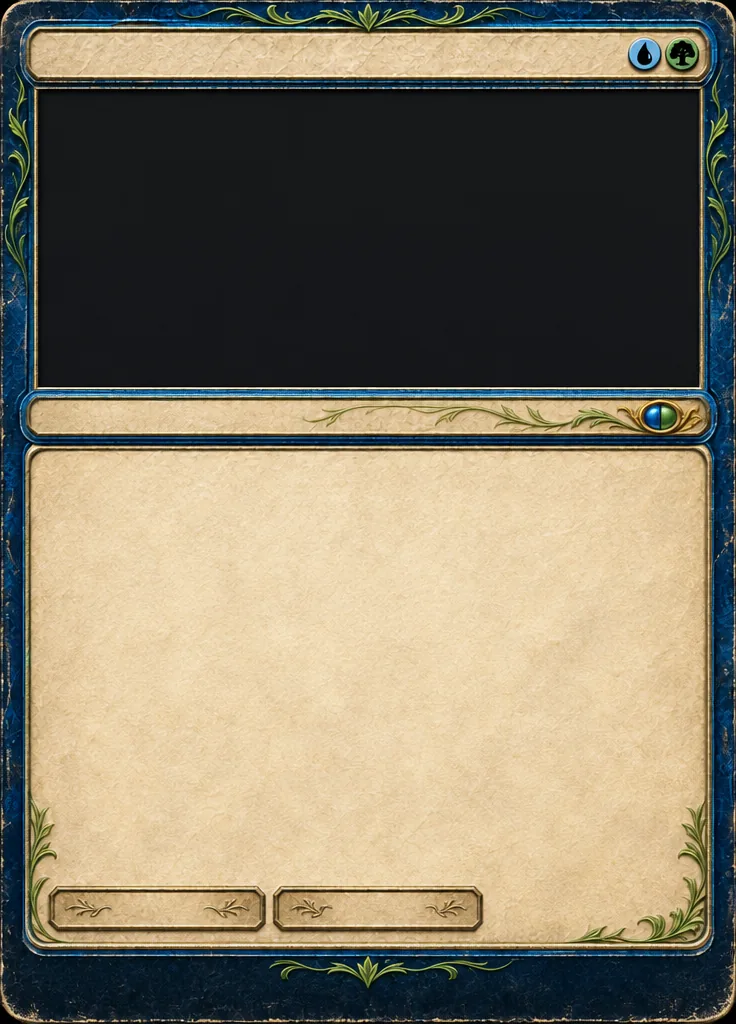
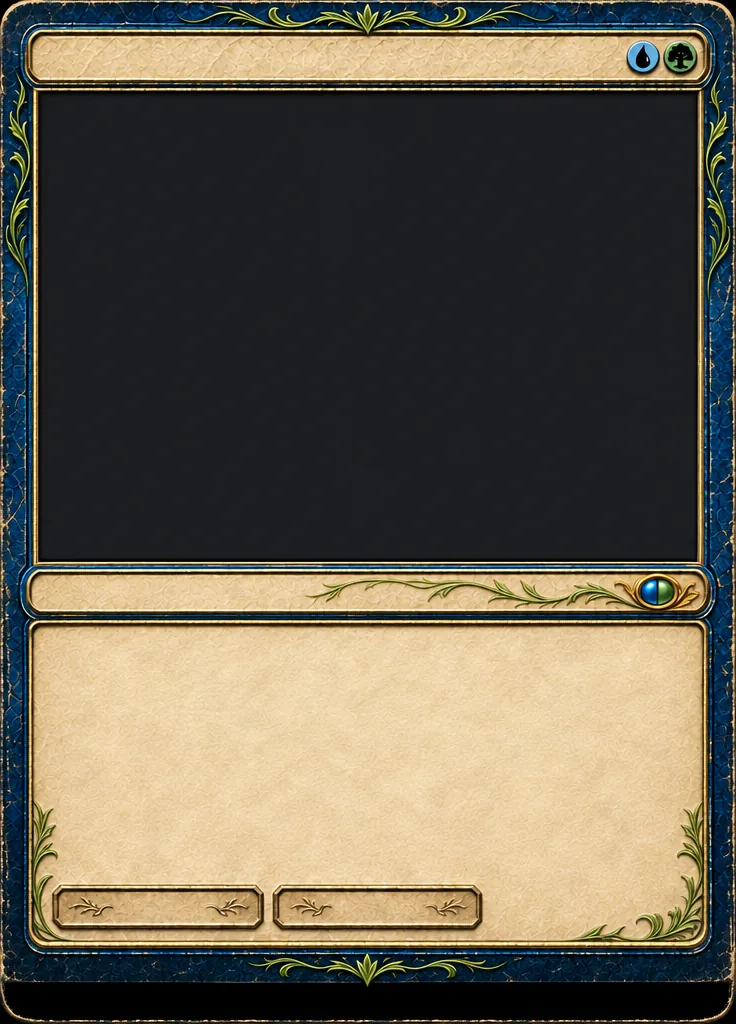
fix: Magic frames follow a real Magic card's proportions
This commit was detailed with Claude (Claude Code). Piece by piece:

Why
- Measured against a real Magic card, the first frames were far off: the art
  window was a 2.4:1 strip (a real card's is about 1.4:1, from 10 % to 55 % of
  the height) and the text box took half the card (a real one, about 30 %).

Geometry (design/magic-frame/template.py)
- New boxes in card px: title bar 24-58, art window 64-350, type line 356-388,
  text box 394-586, P/T box 354-440 x 570-604 over the text box's corner,
  collector line 606-634.
- --blank now keeps the plaques as empty shapes, so one pass gives the frame.

Frames (site/img/frame-*.webp)
- All seven regenerated with Higgsfield in one pass each: the blank template for
  the layout, the card's previous frame for materials and colours (job ids in
  prompts.md). ECOS, Ferrovia and IoT Safe came back with a slightly shorter art
  window (about 1.55:1); the CSS follows each frame's own boxes.

Live text (site/styles.css)
- Every card's measured boxes updated (title, art, type line, text box top,
  plaques, collector line).
- Body text is a variable (--fs): 12.5px on the project cards, 11.5px on
  Hikaru's, whose Focus and Speaks now share a line with Base under them. Flex
  no longer shrinks the text blocks, so nothing overlaps; tighter chips.
- Hikaru's */* sits in the new, larger P/T box.
- site/img/hikaru-art.webp is re-cropped from the portrait at 1.4:1.

Checked in a headless browser in PT, EN and JA: no text runs into the plaques,
[…]

diff --git a/site/styles.css b/site/styles.css
@@ -435,19 +435,19 @@ html.tcg .tcg-card.dragging { cursor: grabbing; -webkit-user-select: none; user-
    design/magic-frame; the live text sits in its boxes. Each slot gives its frame's boxes, measured in card px (460x642):
    --t0/--t1 title bar, --tr where the mana gems start, --al/--a0/--ar/--a1 art window, --y0/--y1/--yr type line, --x text
    box top, --pb/--bh plaque row, --bw plaque width, --b1..--b4 plaque lefts, --c0/--c1 collector line ---- */
-[data-card="hikaru"] { --t0: 17px; --t1: 48px; --tr: 322px; --al: 24px; --a0: 56px; --ar: 436px; --a1: 228px; --y0: 236px; --y1: 261px; --yr: 418px; --x: 270px; --pb: 545px; --bh: 25px; --bw: 77px; --b1: 34px; --b2: 118px; --b3: 202px; --b4: 286px; --c0: 607px; --c1: 642px; --no: 'HKR • 0001'; --frame: url('img/frame-hikaru.webp'); }
-[data-card="portfolio"] { --t0: 26px; --t1: 54px; --tr: 350px; --al: 28px; --a0: 62px; --ar: 432px; --a1: 233px; --y0: 241px; --y1: 266px; --yr: 408px; --x: 276px; --pb: 544px; --bh: 28px; --bw: 123px; --b1: 35px; --b2: 166px; --c0: 607px; --c1: 640px; --no: 'HKR • 0002'; --frame: url('img/frame-portfolio.webp'); }
-[data-card="aquasense"] { --t0: 21px; --t1: 48px; --tr: 391px; --al: 24px; --a0: 57px; --ar: 437px; --a1: 242px; --y0: 251px; --y1: 272px; --yr: 390px; --x: 283px; --pb: 556px; --bh: 27px; --bw: 132px; --b1: 30px; --b2: 171px; --c0: 607px; --c1: 639px; --no: 'HKR • 0003'; --frame: url('img/frame-aquasense.webp'); }
-[data-card="ecos"] { --t0: 29px; --t1: 56px; --tr: 408px; --al: 30px; --a0: 62px; --ar: 431px; --a1: 246px; --y0: 254px; --y1: 275px; --yr: 410px; --x: 282px; --pb: 552px; --bh: 28px; --bw: 128px; --b1: 34px; --c0: 602px; --c1: 638px; --no: 'HKR • 0004'; --frame: url('img/frame-ecos.webp'); }
-[data-card="ferrovia"] { --t0: 26px; --t1: 53px; --tr: 383px; --al: 27px; --a0: 61px; --ar: 434px; --a1: 231px; --y0: 238px; --y1: 263px; --yr: 410px; --x: 270px; --pb: 540px; --bh: 29px; --bw: 127px; --b1: 33px; --c0: 605px; --c1: 642px; --no: 'HKR • 0005'; --frame: url('img/frame-ferrovia.webp'); }
-[data-card="fabio"] { --t0: 29px; --t1: 56px; --tr: 387px; --al: 28px; --a0: 62px; --ar: 432px; --a1: 231px; --y0: 238px; --y1: 262px; --yr: 416px; --x: 271px; --pb: 557px; --bh: 23px; --bw: 128px; --b1: 36px; --c0: 612px; --c1: 640px; --no: 'HKR • 0006'; --frame: url('img/frame-fabio.webp'); }
-[data-card="cofre"] { --t0: 26px; --t1: 55px; --tr: 404px; --al: 31px; --a0: 60px; --ar: 429px; --a1: 232px; --y0: 238px; --y1: 263px; --yr: 410px; --x: 271px; --pb: 551px; --bh: 26px; --bw: 128px; --b1: 36px; --c0: 606px; --c1: 642px; --no: 'HKR • 0007'; --frame: url('img/frame-cofre.webp'); }
+[data-card="hikaru"] { --t0: 22px; --t1: 53px; --tr: 315px; --al: 25px; --a0: 60px; --ar: 435px; --a1: 349px; --y0: 358px; --y1: 385px; --yr: 420px; --x: 393px; --pb: 544px; --bh: 27px; --bw: 76px; --b1: 34px; --b2: 118px; --b3: 202px; --b4: 283px; --c0: 607px; --c1: 642px; --no: 'HKR • 0001'; --frame: url('img/frame-hikaru.webp'); }
+[data-card="portfolio"] { --t0: 25px; --t1: 55px; --tr: 364px; --al: 28px; --a0: 61px; --ar: 433px; --a1: 350px; --y0: 358px; --y1: 384px; --yr: 406px; --x: 394px; --pb: 545px; --bh: 26px; --bw: 124px; --b1: 34px; --b2: 166px; --c0: 607px; --c1: 639px; --no: 'HKR • 0002'; --frame: url('img/frame-portfolio.webp'); }
+[data-card="aquasense"] { --t0: 23px; --t1: 50px; --tr: 391px; --al: 24px; --a0: 57px; --ar: 436px; --a1: 352px; --y0: 361px; --y1: 383px; --yr: 380px; --x: 394px; --pb: 555px; --bh: 27px; --bw: 131px; --b1: 33px; --b2: 170px; --c0: 606px; --c1: 639px; --no: 'HKR • 0003'; --frame: url('img/frame-aquasense.webp'); }
+[data-card="ecos"] { --t0: 28px; --t1: 56px; --tr: 408px; --al: 29px; --a0: 61px; --ar: 431px; --a1: 331px; --y0: 339px; --y1: 366px; --yr: 411px; --x: 373px; --pb: 553px; --bh: 26px; --bw: 127px; --b1: 34px; --c0: 602px; --c1: 638px; --no: 'HKR • 0004'; --frame: url('img/frame-ecos.webp'); }
+[data-card="ferrovia"] { --t0: 26px; --t1: 53px; --tr: 383px; --al: 26px; --a0: 60px; --ar: 434px; --a1: 315px; --y0: 322px; --y1: 347px; --yr: 413px; --x: 357px; --pb: 541px; --bh: 28px; --bw: 127px; --b1: 33px; --c0: 604px; --c1: 640px; --no: 'HKR • 0005'; --frame: url('img/frame-ferrovia.webp'); }
+[data-card="fabio"] { --t0: 28px; --t1: 55px; --tr: 387px; --al: 28px; --a0: 62px; --ar: 432px; --a1: 351px; --y0: 359px; --y1: 383px; --yr: 417px; --x: 392px; --pb: 557px; --bh: 23px; --bw: 127px; --b1: 36px; --c0: 603px; --c1: 640px; --no: 'HKR • 0006'; --frame: url('img/frame-fabio.webp'); }
+[data-card="cofre"] { --t0: 26px; --t1: 55px; --tr: 405px; --al: 31px; --a0: 60px; --ar: 431px; --a1: 308px; --y0: 314px; --y1: 340px; --yr: 412px; --x: 348px; --pb: 552px; --bh: 24px; --bw: 127px; --b1: 37px; --c0: 606px; --c1: 641px; --no: 'HKR • 0007'; --frame: url('img/frame-cofre.webp'); }
 
 /* the text box's content flows inside the card's padding (the text box minus the plaque row); everything else is placed */
 html.tcg .card.mf {
-  --ink: #241a10; --serif: 'Palatino Linotype', 'Book Antiqua', Palatino, 'Noto Serif', Georgia, serif;
-  padding: calc(var(--x) + 9px) 38px calc(642px - var(--pb) + 8px);
-  gap: 7px; background: #111 var(--frame) 0 0 / 100% 100% no-repeat;
+  --fs: 12.5px; --ink: #241a10; --serif: 'Palatino Linotype', 'Book Antiqua', Palatino, 'Noto Serif', Georgia, serif;
+  padding: calc(var(--x) + 8px) 36px calc(642px - var(--pb) + 6px);
+  gap: 5px; background: #111 var(--frame) 0 0 / 100% 100% no-repeat;
   color: var(--ink); font-family: var(--serif);
 }
 html.tcg:lang(ja) .card.mf { --serif: 'Yu Mincho', 'YuMincho', 'Hiragino Mincho ProN', 'Noto Serif JP', serif; }
@@ -474,17 +474,17 @@ html.tcg .card.mf .role {
 }
 html.tcg .card.mf .role br { display: none; }
 html.tcg .card.mf .role [data-i18n="role"]::after { content: ' ·'; }
-html.tcg .card.mf :is(.desc, .about p) { font-size: 13.5px; line-height: 1.38; color: var(--ink); }
+html.tcg .card.mf :is(.desc, .about p) { font-size: var(--fs); line-height: 1.38; color: var(--ink); }
 html.tcg .card.mf .about p { font-style: italic; }
 html.tcg .card.mf .about .label { position: absolute; width: 1px; height: 1px; overflow: hidden; clip-path: inset(50%); }
-html.tcg .card.mf .panel { background: none; border: 0; padding: 0; gap: 1px 8px; font-size: 13.5px; line-height: 1.35; }
+html.tcg .card.mf .panel { background: none; border: 0; padding: 0; gap: 0 8px; font-size: var(--fs); line-height: 1.35; }
 html.tcg .card.mf .panel dt {
-  color: var(--ink); font: italic 700 13.5px/1.35 var(--serif); letter-spacing: 0; text-transform: none;
+  color: var(--ink); font: italic 700 var(--fs)/1.35 var(--serif); letter-spacing: 0; text-transform: none;
 }
-html.tcg .card.mf .chips { gap: 4px; margin-top: 8px; }
+html.tcg .card.mf .chips { gap: 3px; margin-top: 5px; }
 html.tcg .card.mf .chips li {
-  padding: 1px 6px; border: 1px solid rgb(60 40 20 / .4); border-radius: 3px; background: rgb(255 248 230 / .35);
-  color: var(--ink); font-size: 11.5px;
+  padding: 0 5px; border: 1px solid rgb(60 40 20 / .4); border-radius: 3px; background: rgb(255 248 230 / .35);
+  color: var(--ink); font-size: 10.5px;
 }
 /* the buttons are the frame's plaques */
 html.tcg .card.mf .links { position: absolute; inset: 0; display: block; pointer-events: none; }
@@ -510,10 +510,16 @@ html.tcg .card.mf .foot {
 html.tcg .card.mf .foot::before { content: var(--no); }
 html.tcg .card.mf .foot > :last-child { margin-left: auto; }
 html.tcg .card.mf .open { color: #cfc6b0; }
+/* Hikaru's card holds the most text in the same box */
+html.tcg [data-card="hikaru"] .card.mf { --fs: 11.5px; }
+html.tcg .card.mf > * { flex-shrink: 0; }
+/* Focus and Speaks side by side, Base under them: one line less in the text box */
+html.tcg [data-card="hikaru"] .card.mf .panel { grid-template-columns: auto auto auto 1fr; column-gap: 6px; }
+html.tcg [data-card="hikaru"] .card.mf .panel dd:nth-of-type(1) { margin-right: 12px; }
 /* Hikaru's power/toughness box */
 html.tcg [data-card="hikaru"] .card.mf::after {
-  content: '*/*'; position: absolute; z-index: 1; inset: 575px auto auto 371px; width: 64px; height: 32px;
-  background: none; opacity: 1; font: 700 17px/32px var(--serif); text-align: center; color: var(--ink);
+  content: '*/*'; position: absolute; z-index: 1; inset: 569px auto auto 362px; width: 81px; height: 40px;
+  background: none; opacity: 1; font: 700 19px/40px var(--serif); text-align: center; color: var(--ink);
 }
 
 /* critters walk in the lane above the ground, in both modes; DOM order puts them over .ground and under

diff --git a/design/magic-frame/template.py b/design/magic-frame/template.py
@@ -1,20 +1,22 @@
 # The Magic frame's geometry, drawn flat for Higgsfield to finish (docs/adr/0001). One template per card: the boxes are the
 # same on every card (site/styles.css places the live text in them), the placeholder text and colour differ.
 # usage: python design/magic-frame/template.py <card> <out.png> [--blank]
-#   --blank: the same geometry with every text area empty and the art window plain, for the frame the site uses
+#   --blank: the same geometry with every text area empty, the plaques blank and the art window plain: the frame the site uses
 import sys
 from PIL import Image, ImageDraw, ImageFont
 
 W, H = 736, 1024          # Higgsfield size (multiples of 16), the card's 460x642 proportion
 S = W / 460               # card px -> template px
 # the geometry, in card px (460x642); keep in sync with the .mframe rules in site/styles.css
+# proportions of a real Magic card (modern frame): title bar at 4-9 % of the height, art window 10-55 % (about 1.4:1),
+# type line 56-61 %, text box 62-91 %, the power/toughness box over the text box's bottom right corner
 GEO = {
-    'title': (18, 16, 442, 50),
-    'art': (22, 54, 438, 254),
-    'type': (18, 258, 442, 284),
-    'text': (22, 288, 438, 598),
-    'pt': (366, 580, 440, 610),   # Hikaru's card only
-    'collector': (18, 606, 442, 630),
+    'title': (22, 24, 438, 58),
+    'art': (30, 64, 430, 350),
+    'type': (22, 356, 438, 388),
+    'text': (28, 394, 432, 586),
+    'pt': (354, 570, 440, 604),   # Hikaru's card only
+    'collector': (22, 606, 438, 634),
 }
 CARDS = {
     'hikaru': dict(color='gold', name='Hikaru Ogasawara', mana='W U B R G', pt='*/*',
@@ -63,26 +65,27 @@ def draw(card, blank):
     d.rectangle(box('art'), fill=(40, 40, 44), outline=(20, 18, 16), width=3)
     d.rectangle(box('text'), fill=(240, 232, 212), outline=(40, 34, 28), width=2)
     if c.get('pt'): d.rounded_rectangle(box('pt'), radius=round(6 * S), fill=(236, 228, 206), outline=(40, 34, 28), width=2)
-    if blank:
-        return im
     x0, y0, x1, y1 = box('title')
-    d.text((x0 + 10, (y0 + y1) / 2), c['name'], font=font(20, True), fill=(20, 16, 12), anchor='lm')
-    d.text((x1 - 10, (y0 + y1) / 2), c['mana'], font=font(13, True), fill=(20, 16, 12), anchor='rm')
-    x0, y0, x1, y1 = box('art'); d.text(((x0 + x1) / 2, (y0 + y1) / 2), 'ART', font=font(18), fill=(120, 120, 128), anchor='mm')
-    x0, y0, x1, y1 = box('type'); d.text((x0 + 10, (y0 + y1) / 2), c['type'], font=font(11.5, True), fill=(20, 16, 12), anchor='lm')
+    if not blank: d.text((x0 + 10, (y0 + y1) / 2), c['name'], font=font(20, True), fill=(20, 16, 12), anchor='lm')
+    if not blank: d.text((x1 - 10, (y0 + y1) / 2), c['mana'], font=font(13, True), fill=(20, 16, 12), anchor='rm')
+    x0, y0, x1, y1 = box('art')
+    if not blank: d.text(((x0 + x1) / 2, (y0 + y1) / 2), 'ART', font=font(18), fill=(120, 120, 128), anchor='mm')
+    x0, y0, x1, y1 = box('type')
+    if not blank: d.text((x0 + 10, (y0 + y1) / 2), c['type'], font=font(11.5, True), fill=(20, 16, 12), anchor='lm')
     x0, y0, x1, y1 = box('text'); y = y0 + 14
-    for ln in c['lines']:
+    for ln in ([] if blank else c['lines']):
         d.text((x0 + 14, y), ln, font=font(11.5), fill=(28, 22, 16)); y += round(19 * S)
     right = box('pt')[0] - 12 if c.get('pt') else x1 - 14  # the row stops short of the P/T box
     n = c.get('slots', 4)  # plaque width: a quarter of the row on Hikaru's card, a third on a project
     bw = (right - x0 - 14 - (n - 1) * 10) / n
     for i, b in enumerate(c['buttons']):
         bx = x0 + 14 + i * (bw + 10)
-        d.rounded_rectangle((bx, y1 - 60, bx + bw, y1 - 22), radius=8, fill=(210, 196, 160), outline=(60, 48, 30), width=2)
-        d.text((bx + bw / 2, y1 - 41), b, font=font(11, True), fill=(28, 22, 16), anchor='mm')
-    if c.get('pt'):
+        d.rounded_rectangle((bx, y1 - 56, bx + bw, y1 - 16), radius=8, fill=(210, 196, 160), outline=(60, 48, 30), width=2)
+        if not blank: d.text((bx + bw / 2, y1 - 41), b, font=font(11, True), fill=(28, 22, 16), anchor='mm')
+    if c.get('pt') and not blank:
         x0, y0, x1, y1 = box('pt'); d.text(((x0 + x1) / 2, (y0 + y1) / 2), c['pt'], font=font(15, True), fill=(20, 16, 12), anchor='mm')
-    x0, y0, x1, y1 = box('collector'); d.text((x0 + 4, (y0 + y1) / 2), c['collector'], font=font(9), fill=(230, 224, 210), anchor='lm')
+    x0, y0, x1, y1 = box('collector')
+    if not blank: d.text((x0 + 4, (y0 + y1) / 2), c['collector'], font=font(9), fill=(230, 224, 210), anchor='lm')
     return im
 
 if __name__ == '__main__':

diff --git a/design/magic-frame/prompts.md b/design/magic-frame/prompts.md
@@ -48,3 +48,31 @@ ECOS black, Ferrovia white-red, Procurando o Fábio blue-black, IoT Safe colourl
 
 The boxes of each frame were read with `measure.py` (scan-line runs) and the plaques from zoomed crops; they are the
 per-card variables at the top of the Magic frame block in site/styles.css.
+
+## Real Magic proportions (second geometry)
+
+The first frames had a wide, short art window (2.4:1) and a text box half the card tall. `template.py` now follows a real
+Magic card (title bar 4-9 % of the height, art window 10-55 % at about 1.4:1, type line 56-61 %, text box 62-91 %, P/T box
+over the text box's corner). Each frame was regenerated in one pass from the blank template (`template.py <card> <out>
+--blank`, which keeps the plaques) plus the card's previous frame as the style reference:
+
+```
+Dress image 1 in exactly the frame of image 2: the same materials, colours, ornaments, engraving and finish, the same
+{MANA} at the right end of the title bar and the same small gem at the right end of the type line. Image 1 is a strict
+layout with the proportions of a real Magic: The Gathering card: keep every box exactly where it is and the same size [...].
+Every text area is empty [...]; the plaques are empty engraved shapes; the art window is a plain flat dark rectangle.
+```
+
+| card | frame job (current) |
+|---|---|
+| hikaru | 758a2de1-e23e-4b44-b22d-edf86a0fce40 |
+| portfolio | 3db562d9-a403-428b-9a2d-ec5d7a703edc |
+| aquasense | 1ac54a3b-dfce-42ca-9fad-1ce9742e4370 |
+| ecos | cb897e36-732c-4fa3-a0b8-8808cfd8d571 |
+| ferrovia | e549b089-870d-4130-89ac-214cb42de9f2 |
+| fabio | 9f707c9c-8bc6-4319-ba44-95ab4cb41db6 |
+| cofre | 1a5f7068-b89b-4573-a50d-caf4bc2159a3 |
+
+ECOS, Ferrovia and IoT Safe came back with a somewhat shorter art window (about 1.55:1); the CSS follows each frame's
+own measured boxes, so they are kept. The `-full.webp` references above are from the first geometry: they still show the
+typography, not the proportions.
